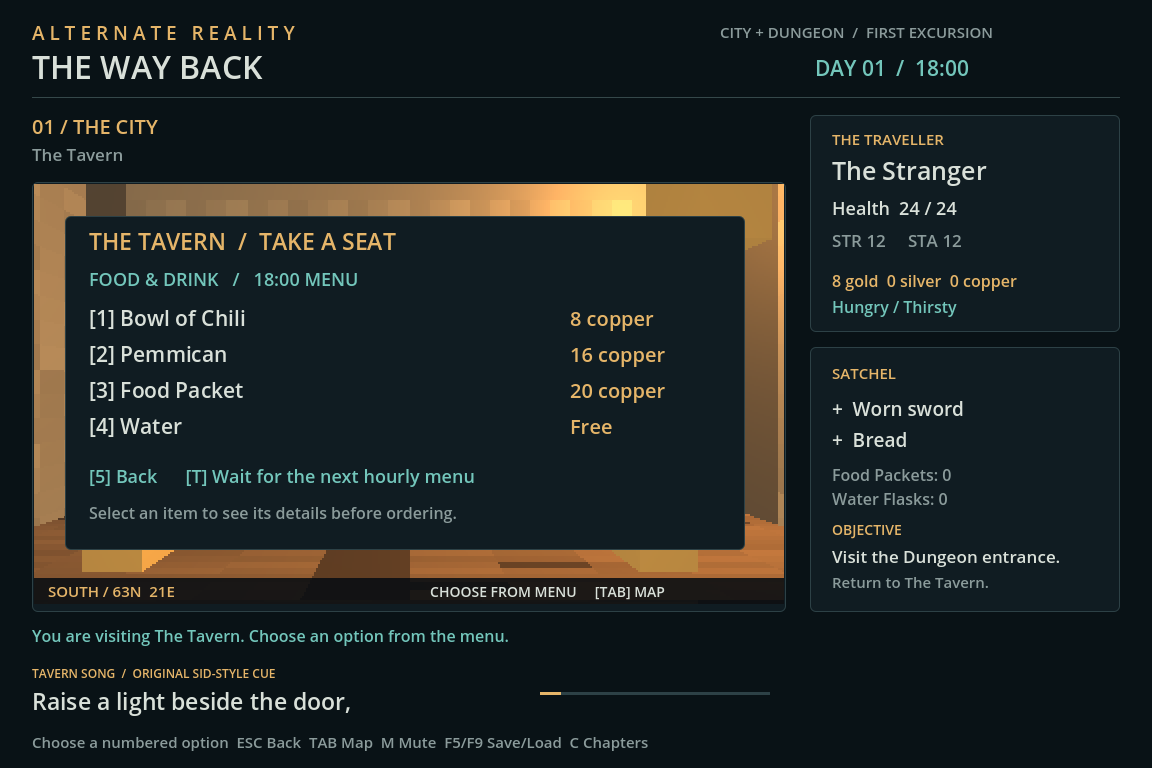
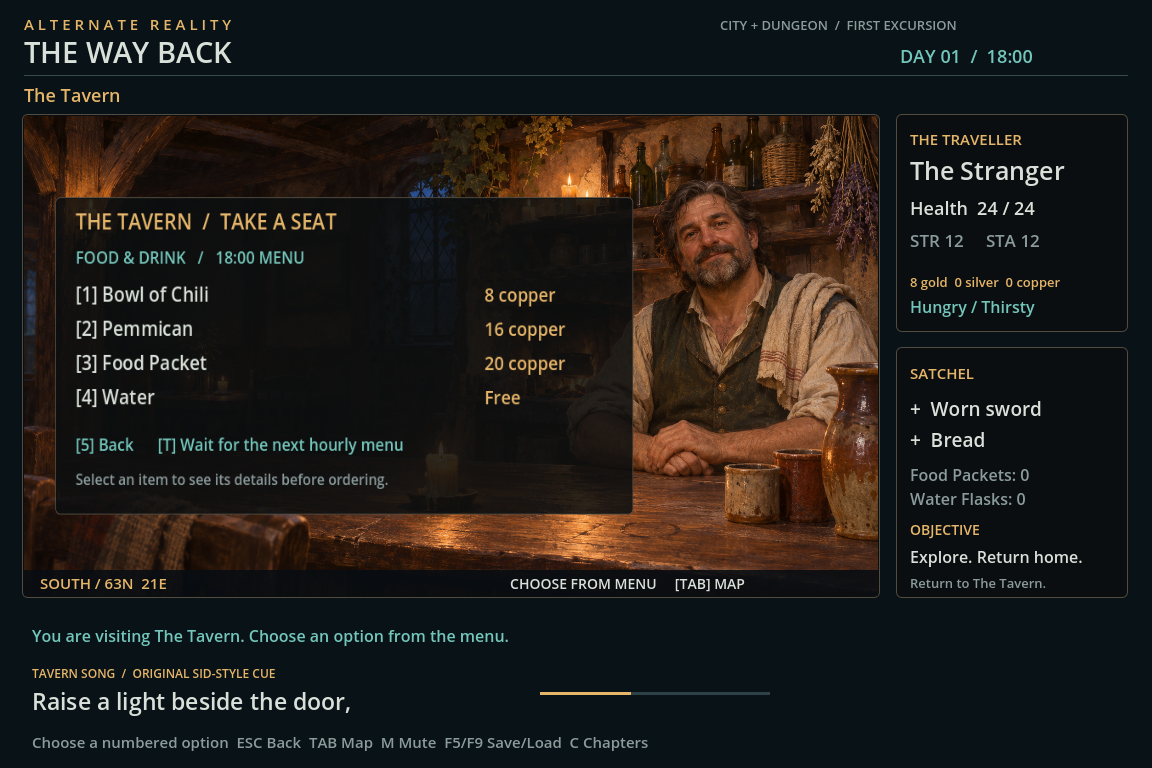
Introduce painted tavern and atmospheric first-person visual study

Changed region(s): [[0.0, 0.0312, 0.9688, 0.7812], [0.5, 0.875, 0.5312, 0.9062]]

diff --git a/docs/ART_DIRECTION.md b/docs/ART_DIRECTION.md
@@ -1,0 +1,21 @@
+# Atmosphere study 01
+
+Direction approved 2026-11-10: grounded, inhabited fantasy with an uncanny undertone. This first playable visual study focuses on the tavern screen and Dungeon corridor, rather than reproducing Atari/C64 pixel art.
+
+- Tavern: original AI-generated painted interior, composed with quiet space behind the menu and the innkeeper visible at the right. It is a location backdrop, not a navigable room or recovered historical asset. Music and timed lyrics continue normally.
+- Dungeon: deterministic 256×256 procedural stone/timber surfaces with normal maps and mipmaps, cool ambient light, warm shadow-casting torches, iron door straps and shallow masonry trim. Secret walls retain the same treatment as ordinary stone. Decorations do not alter collision or raw map codes.
+- Interface: world view grows from 750×420 to 854×480; the internal 3D render increases from 375×210 to 1024×576 with linear filtering and 2× MSAA. Compact side panels, subdued borders and a translucent tavern menu give the scene more room.
+
+Controls, save format, movement, doors, transition data, service prices and lyrics are unchanged. Materials also improve the City incidentally; distinctive City architecture and signs remain a later art pass. These surfaces and fixtures are still an art-direction prototype, not finished environment assets.
+
+## Asset provenance
+
+assets/art/tavern-painted-v1.png was generated with the built-in image-generation tool on 2026-11-10. No original game image was supplied. Brief: original wide illustrated tavern; seated guest's view at an aged oak counter; quiet dark left side for menu; believable middle-aged innkeeper in linen and green waistcoat at right; amber candles/hearth, cool dusk through leaded glass; weathered wood/plaster, restrained palette, no text/UI/logos. The generated image was copied into the project unchanged. It is decorative art and does not depict a historical person or establish game lore.
+
+scripts/atmosphere_materials.gd creates the original procedural textures at startup. The legacy prototype scene keeps its previous materials and rendering settings for comparison.
+
+## Review
+
+Launch Play.cmd and inspect the tavern menu, food menu, confirmation and lyrics. Walk to the Dungeon entrance to compare its stone, torch and door. Tab still shows the map. Existing screenshots are refreshed by the original-route capture test; the previous appearance remains in Git history at f3c9535.
+
+The increased render resolution, antialiasing and torch shadows cost more GPU time. Tested with Godot 4.5.1's OpenGL compatibility renderer on this machine; lower-end GPU performance remains to be evaluated. Full-floor and original-route integration tests cover the streamed renderer and gameplay. No performance target is claimed yet.

diff --git a/docs/SOURCES.md b/docs/SOURCES.md
@@ -17,6 +17,8 @@ Updated 2026-11-10. See [reconstruction notes](RECONSTRUCTION.md) for decoding e
 
 The former invented Lantern & the Gate maps and brass-token quest remain only in the separate prototype scene.
 
+The 2026-11-10 atmosphere pass adds an original AI-generated tavern painting, procedural material/normal maps, modern torch lighting and a revised interface. These are remake art choices, not recovered game artwork or planned developer features. See [art provenance and scope](ART_DIRECTION.md).
+
 First Excursion uses a tavern interaction screen. Its first meal/briefing/leave scaffold has now gained a limited source-informed food/drink service; exact menu wording, hourly sets and need/timing formulas remain remake choices. The full-healing two-gold meal has been removed. Leaving traverses the existing north boundary; entering restores the screen. Music and timed lyrics continue during menu use. The excursion adds no historical quest, reward or map geometry.
 
 Dungeon JSON derives from original map data. Its source headers credit Jason Duerstock (2008) and the original program to Intellicreations (1987); the repository specifies GPL-2.0. All four level-one map sources/checksums, the runtime reference for transition decoding and upstream license are preserved in third_party/ardungeon. Transition behavior is implemented from the original table and dispatcher evidence. This attribution does not assert blanket rights to original game assets. No ARX implementation code was ported. The V tour and transition dots are invented playtest aids.

diff --git a/README.md b/README.md
@@ -25,6 +25,8 @@ The Tavern now offers individual food, free water and provisions, with copper pr
 
 ## Implementation and evidence
 
+The current [visual study](docs/ART_DIRECTION.md) adds a painted tavern backdrop, a larger world view and higher-resolution Dungeon materials and lighting. It changes presentation only; existing saves and controls still work.
+
 - data/maps/: directional boundaries, route and provenance hashes.
 - data/tavern.json: menu items, prices, effects and provenance.
 - scripts/original_world.gd: shared state, directional doors, transitions and versioned saves.
